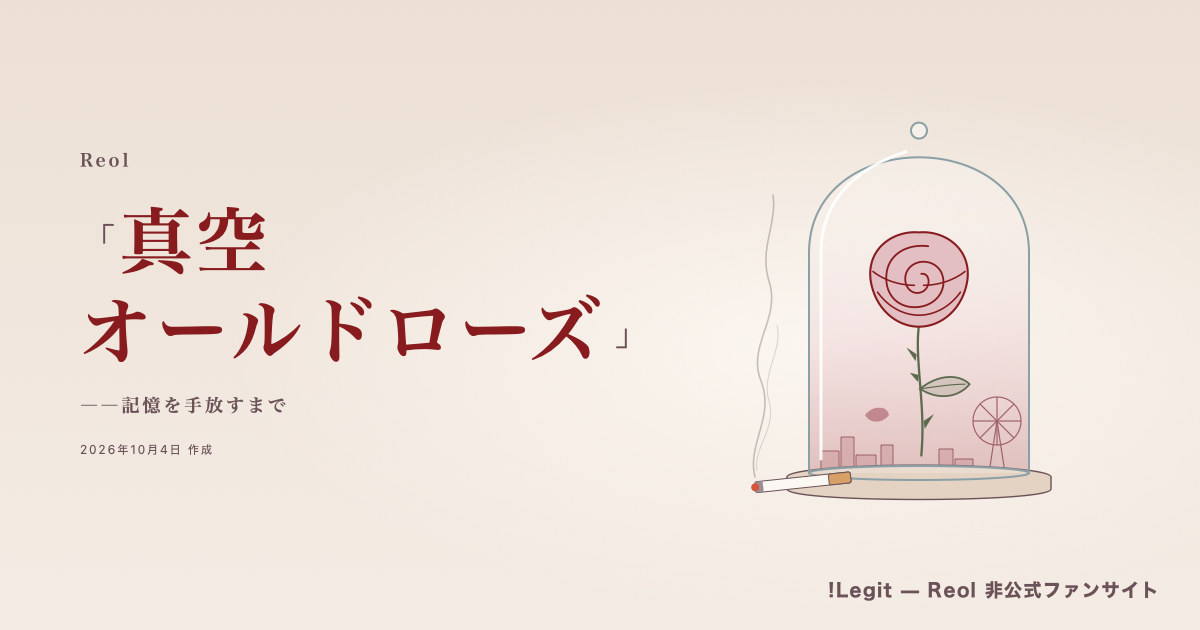
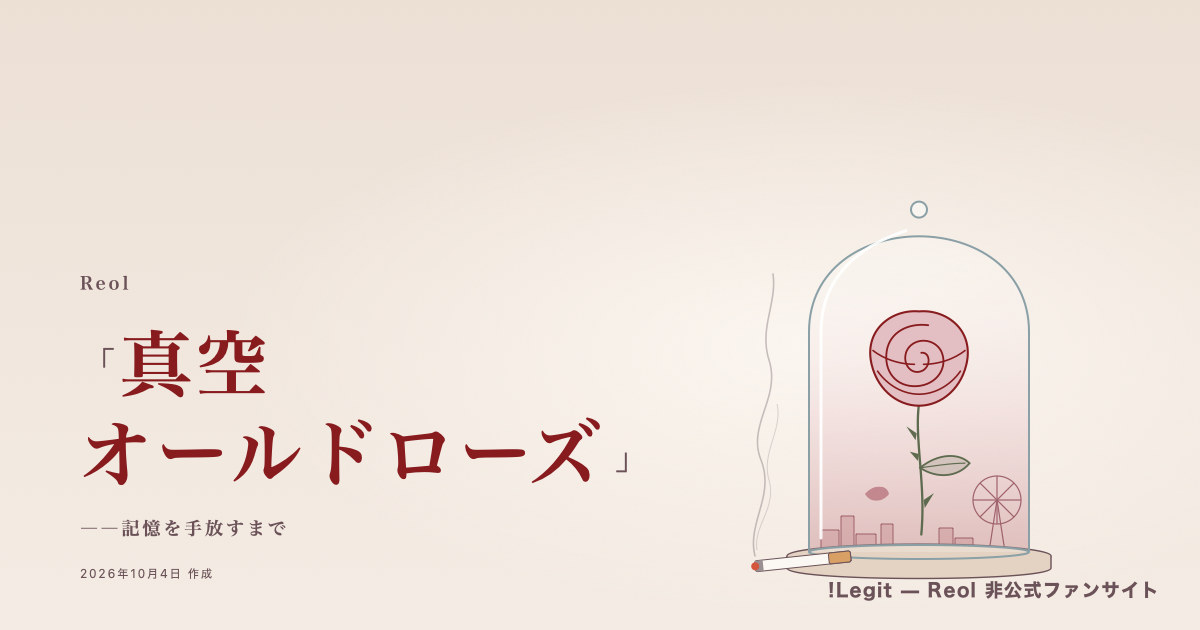
fix: 真空オールドローズの表紙の下の余白を詰め、太陽の線を東から西へ描く

diff --git a/src/components/songArticles/designs/reol-song-057/vacuumoldrose.css b/src/components/songArticles/designs/reol-song-057/vacuumoldrose.css
@@ -34,7 +34,7 @@
   background:
     radial-gradient(ellipse 70% 60% at 68% 55%, #fbf6f0 0%, transparent 70%),
     linear-gradient(180deg, var(--paper-2) 0%, var(--paper) 100%);
-  min-height: clamp(560px, 90svh, 760px);
+  /* 高さは中身に合わせる(最小の高さを付けると、作成日の下に表紙の余りが残る。2026-10-13 ユーザー指摘) */
   display: flex;
   flex-direction: column;
 }
@@ -68,9 +68,13 @@
   margin: 0 auto;
   display: grid;
   grid-template-columns: minmax(0, 1fr) minmax(0, 0.9fr);
-  align-items: center;
+  /* PC は題名の下端を、ガラスの覆いの台の高さにそろえる */
+  align-items: end;
   gap: 24px;
-  padding-bottom: clamp(32px, 5vw, 56px);
+  padding: clamp(16px, 3vw, 40px) 0 clamp(24px, 3vw, 36px);
+}
+.a057-cover__text {
+  padding-bottom: clamp(4px, 1vw, 12px);
 }
 .a057-cover__art {
   display: block;
@@ -235,7 +239,7 @@
 
 /* ---------- 本文 ---------- */
 .a057-ground {
-  padding-top: clamp(40px, 6vw, 72px);
+  padding-top: clamp(24px, 4vw, 48px);
   background: var(--paper);
 }
 .a057-column {
@@ -589,7 +593,10 @@
 @media (max-width: 760px) {
   .a057-cover__body {
     grid-template-columns: 1fr;
-    align-content: center;
+    align-items: start;
+  }
+  .a057-cover__text {
+    padding-bottom: 0;
   }
   .a057-cover__art {
     order: -1;

diff --git a/src/components/songArticles/designs/reol-song-057/VacuumOldRoseDesign.tsx b/src/components/songArticles/designs/reol-song-057/VacuumOldRoseDesign.tsx
@@ -119,7 +119,7 @@ const BellJar: React.FC<{ cx: number; y: number; w: number; h: number; className
 
 /** 表紙の絵: 台の上のガラスの覆いと薔薇、足もとから立ちのぼる一筋の煙。装飾なので読み上げ対象外 */
 const CoverArt: React.FC = () => (
-  <svg className="a057-cover__art" viewBox="0 0 420 520" aria-hidden="true">
+  <svg className="a057-cover__art" viewBox="0 0 420 472" aria-hidden="true">
     {/* 煙は台の手前に置いた煙草の先から立ちのぼる(イントロの ZIPPO と煙草。2026-10-13 ユーザー「タバコから出ていればわかる」) */}
     <path
       d="M86,434 C78,400 106,374 92,338 C78,302 112,276 100,238 C90,206 108,182 104,152"
@@ -245,7 +245,8 @@ const SunChart: React.FC = () => {
         {arcs.map(([x0, x1, h], i) => (
           <path
             key={i}
-            d={`M${x0},${H} C${x0 + 20},${H - h * 1.3} ${x1 - 20},${H - h * 1.3} ${x1},${H}`}
+            // 東(右)から昇り西(左)へ沈む向きに描く(線が描かれる動きも右から左)
+            d={`M${x1},${H} C${x1 - 20},${H - h * 1.3} ${x0 + 20},${H - h * 1.3} ${x0},${H}`}
             className="a057-sun__arc a057-sun__arc--main"
             style={{ transitionDelay: `${i * 0.2}s` }}
             pathLength={1}

diff --git a/plan/39-vacuum-oldrose-article-design.md b/plan/39-vacuum-oldrose-article-design.md
@@ -94,3 +94,5 @@
 - OGP 画像: 表紙をそのまま撮影(`static/articles-og/shinkuu-ourudorouzu.jpg`)。明るい紙の地で右下のサイト名(白)が読みにくいため、この記事だけ濃いワイン色にする調整を `capture-article-og.ts` に足した。
 - デプロイ(main @ 2276ab08a、記事8本)。MONSTER の XFD 埋め込みも同時に反映。本番で記事ページ・記事別デザイン・OGP 画像・読みもの一覧、2記事の XFD の開始位置(178秒・395秒)を WebKit・Chromium で確認。エラーなし。
 - 冒頭の「聴く：」のリンクの行: スマートフォンでは必ず折り返して詰まるため、デザイン側でリンクを取り出し、「聴く」の見出しと札の並び(リスト)に組み直した(区切りの「｜」は外す。文言とリンク先は原稿のまま)。スマートフォンは縦積み、PC は横並び(ユーザー「どうせどのスマホ端末でも折り返すなら最初から縦積みにしては？」)。
+- 作成日から「聴く」までの余白(ユーザー指摘): 表紙に最小の高さ(画面の約9割)を付けて中身を上下中央に置いていたため、作成日の下に表紙の余りが残っていた(スマホ約150px・PC約300px)。最小の高さをやめ、PC は題名の下端を台の高さにそろえ、絵の枠を台の下端で切り詰め、本文の頭の余白も詰めた(スマホ約48px・PC約96px)。OGP 画像も撮り直した。
+- 太陽の通り道の線が描かれる向きを、東(右)から西(左)へ(ユーザー指摘。東西を入れ替えた時に、線の向きはそのままだった)。
